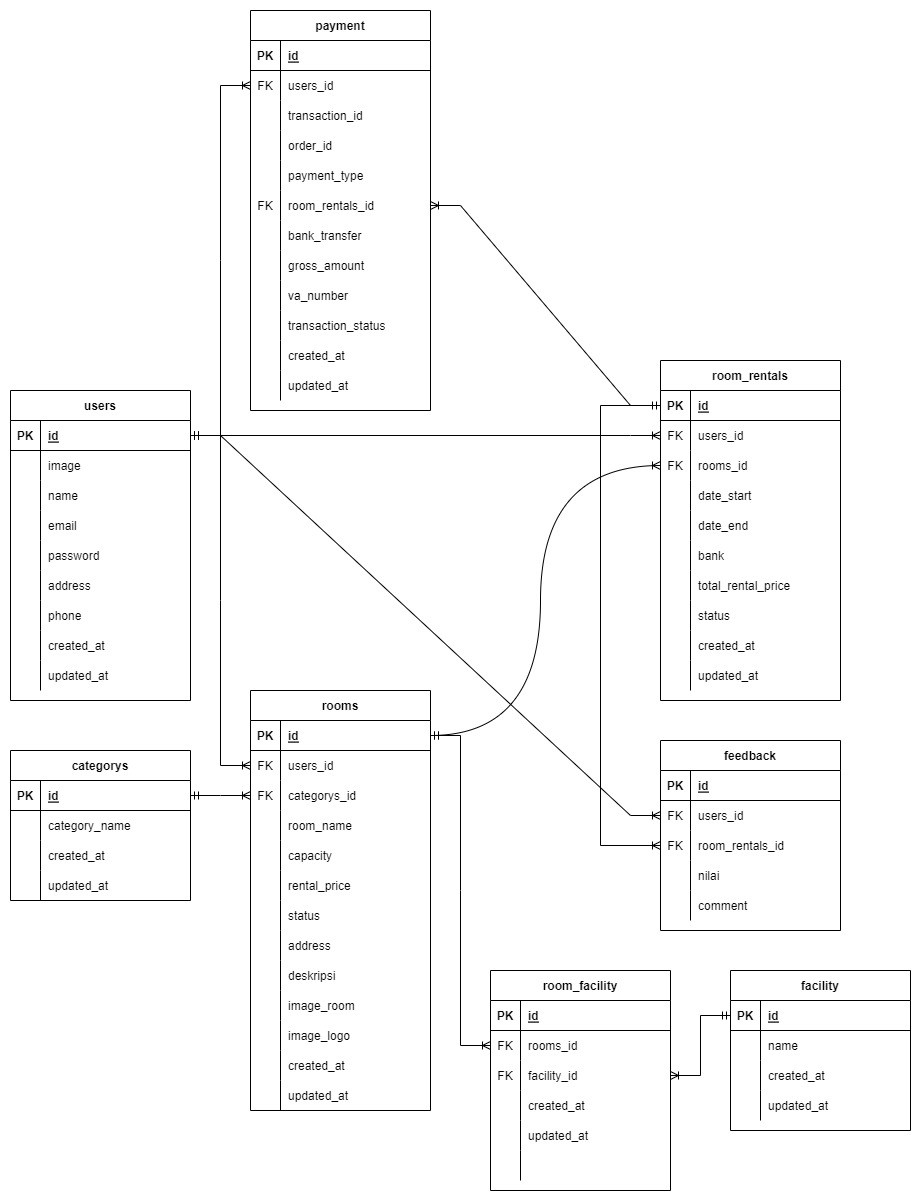
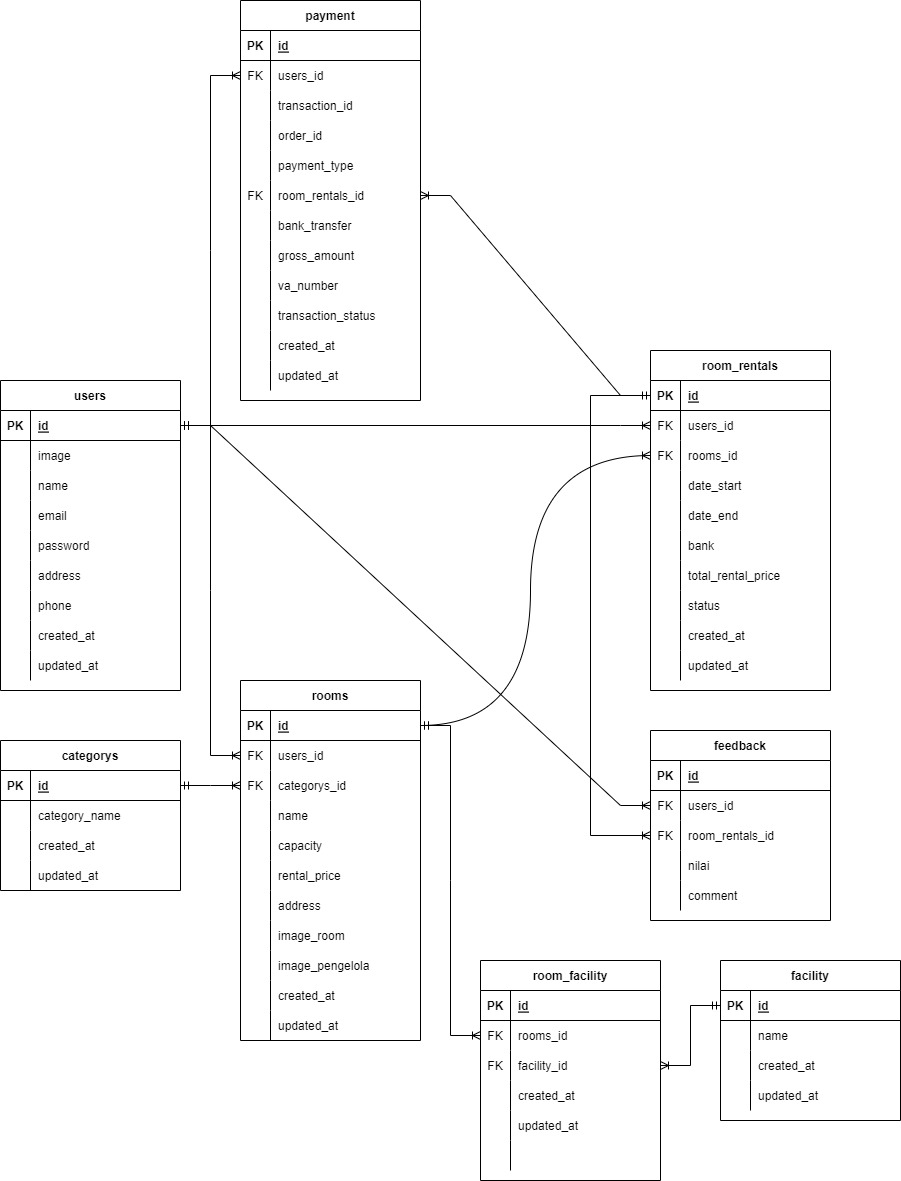
changes to rent and room erd

diff --git a/features/rents/data/model.go b/features/rents/data/model.go
@@ -49,14 +49,14 @@ func (data *Rents) toCore() rents.Core {
 			Address:  data.User.Address,
 		},
 		Room: rooms.Core{
-			ID:          int(data.Rooms.ID),
-			ImageRoom:   data.Rooms.ImageRoom,
-			ImageLogo:   data.Rooms.ImageLogo,
-			RoomName:    data.Rooms.RoomName,
-			Capacity:    data.Rooms.Capacity,
-			RentalPrice: data.Rooms.RentalPrice,
-			City:        data.Rooms.City,
-			Address:     data.Rooms.Address,
+			ID:             int(data.Rooms.ID),
+			ImageRoom:      data.Rooms.ImageRoom,
+			ImagePengelola: data.Rooms.ImagePengelola,
+			Name:           data.Rooms.Name,
+			Capacity:       data.Rooms.Capacity,
+			RentalPrice:    data.Rooms.RentalPrice,
+			City:           data.Rooms.City,
+			Address:        data.Rooms.Address,
 		},
 	}
 }

diff --git a/features/rents/presentation/response/dto.go b/features/rents/presentation/response/dto.go
@@ -42,14 +42,14 @@ func FromCore(data rents.Core) Rents {
 			Address:  data.User.Address,
 		},
 		Rooms: _rooms.Rooms{
-			ID:          data.Room.ID,
-			ImageRoom:   data.Room.ImageRoom,
-			ImageLogo:   data.Room.ImageLogo,
-			RoomName:    data.Room.RoomName,
-			Capacity:    data.Room.Capacity,
-			RentalPrice: data.Room.RentalPrice,
-			City:        data.Room.City,
-			Address:     data.Room.Address,
+			ID:             data.Room.ID,
+			ImageRoom:      data.Room.ImageRoom,
+			ImagePengelola: data.Room.ImagePengelola,
+			Name:           data.Room.Name,
+			Capacity:       data.Room.Capacity,
+			RentalPrice:    data.Room.RentalPrice,
+			City:           data.Room.City,
+			Address:        data.Room.Address,
 		},
 	}
 }
